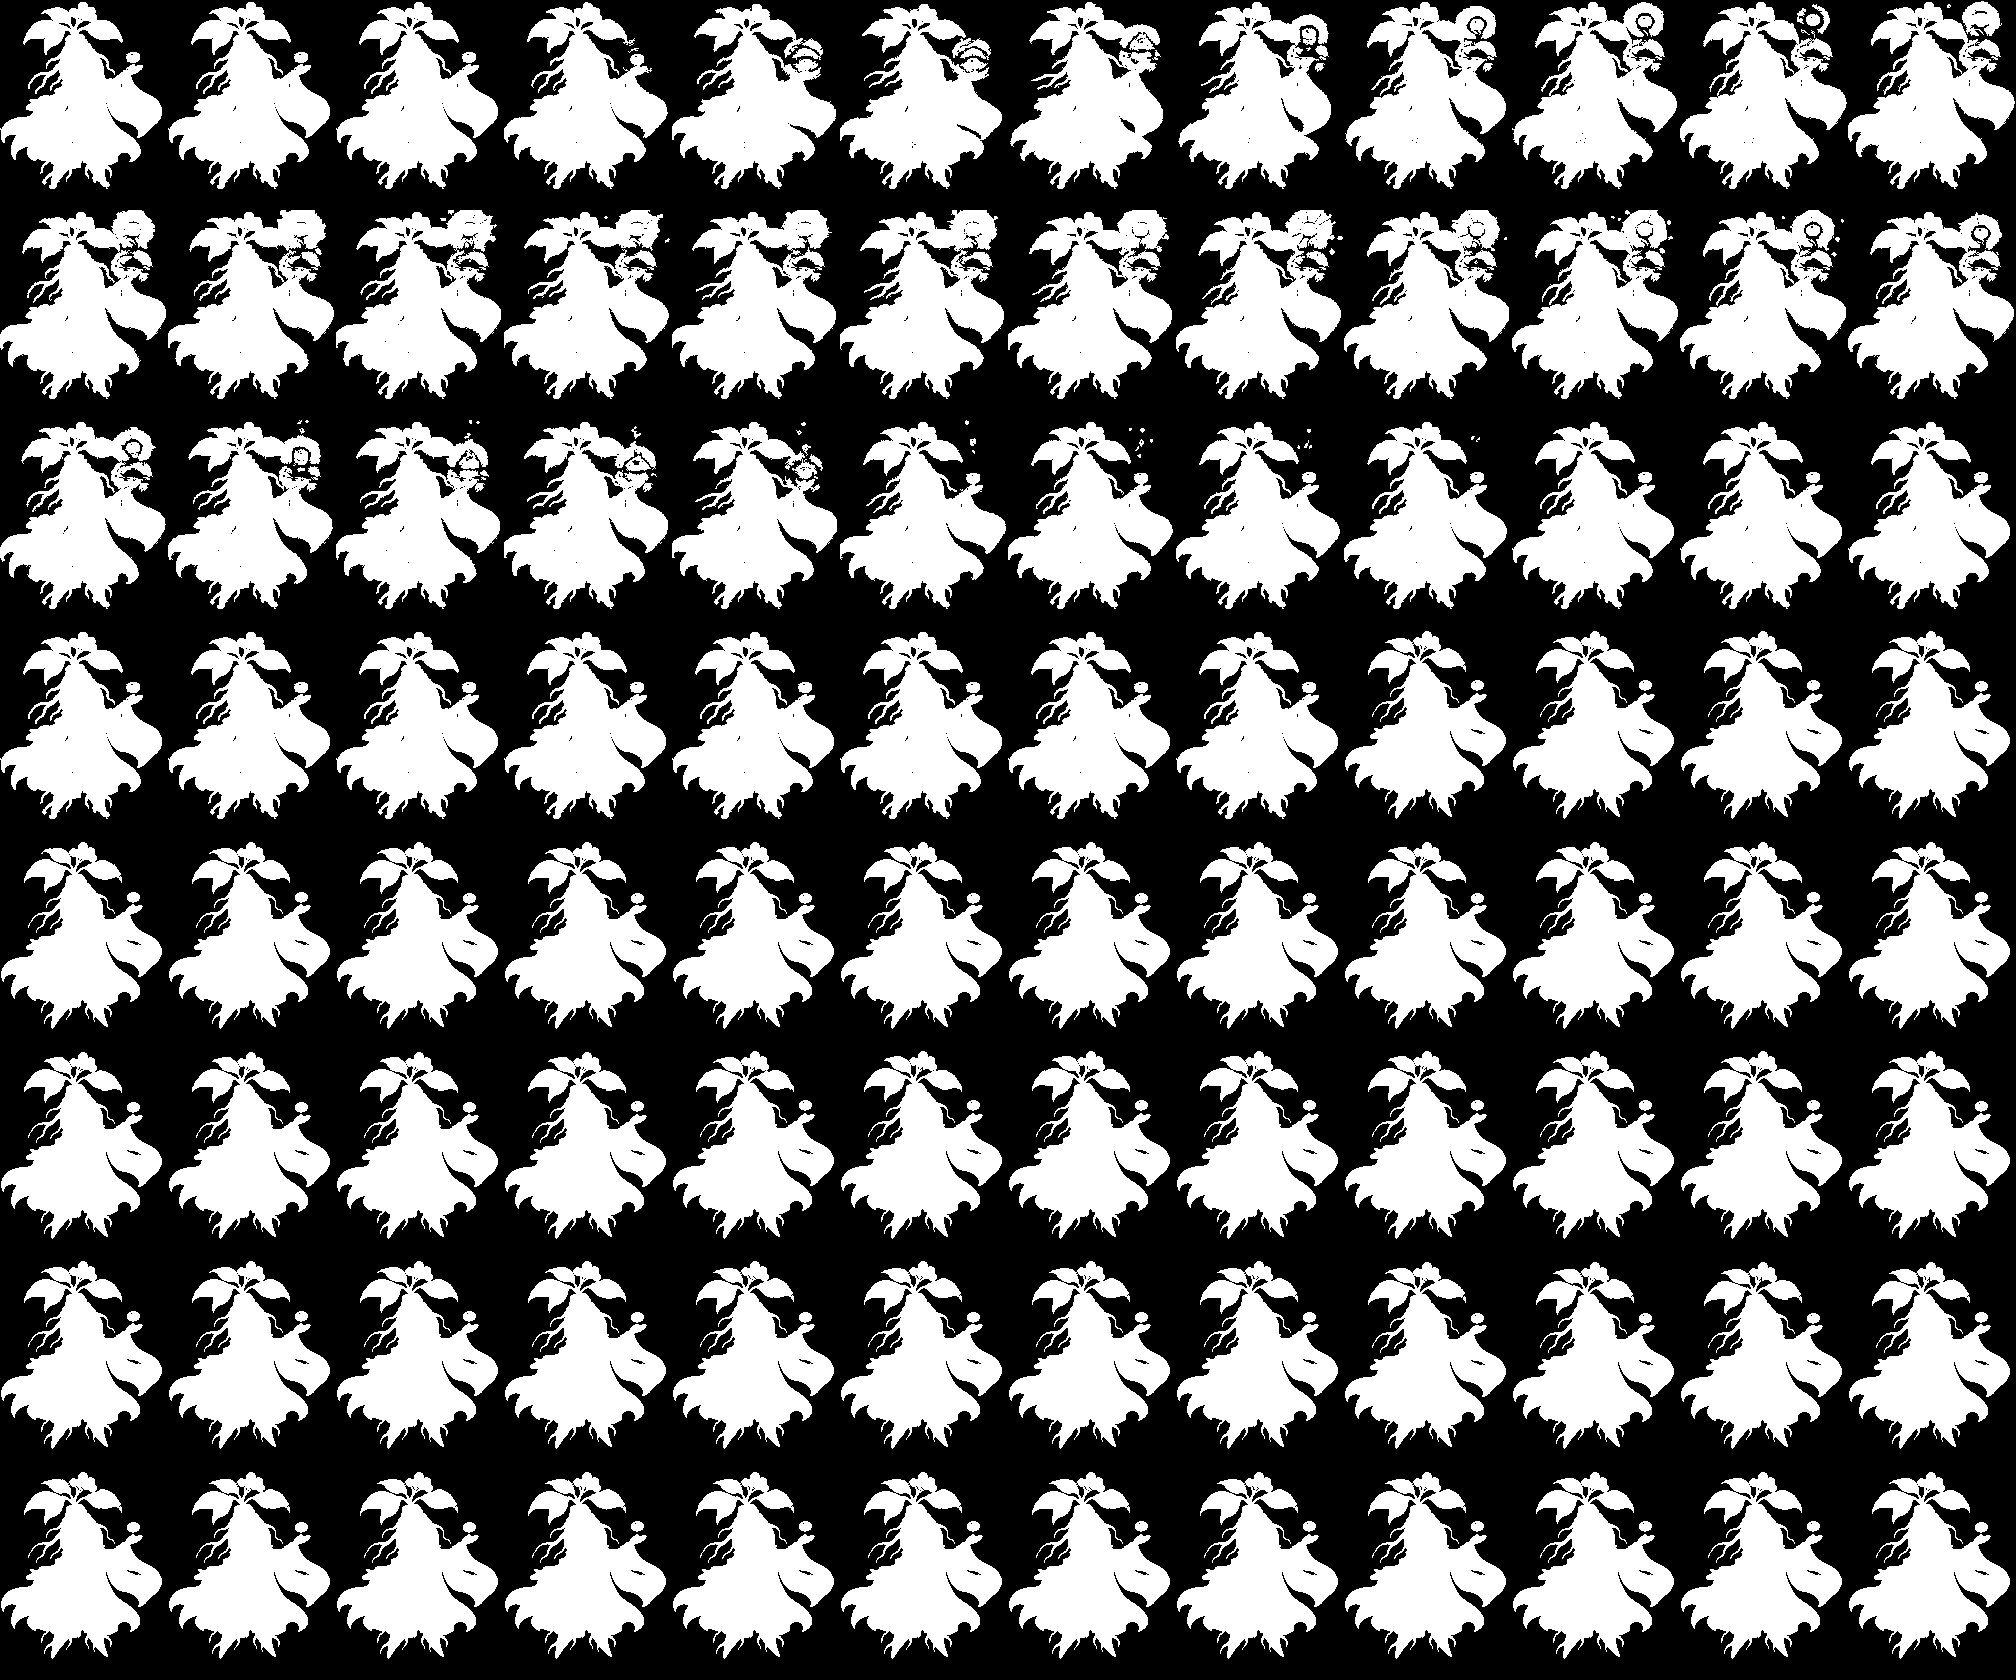
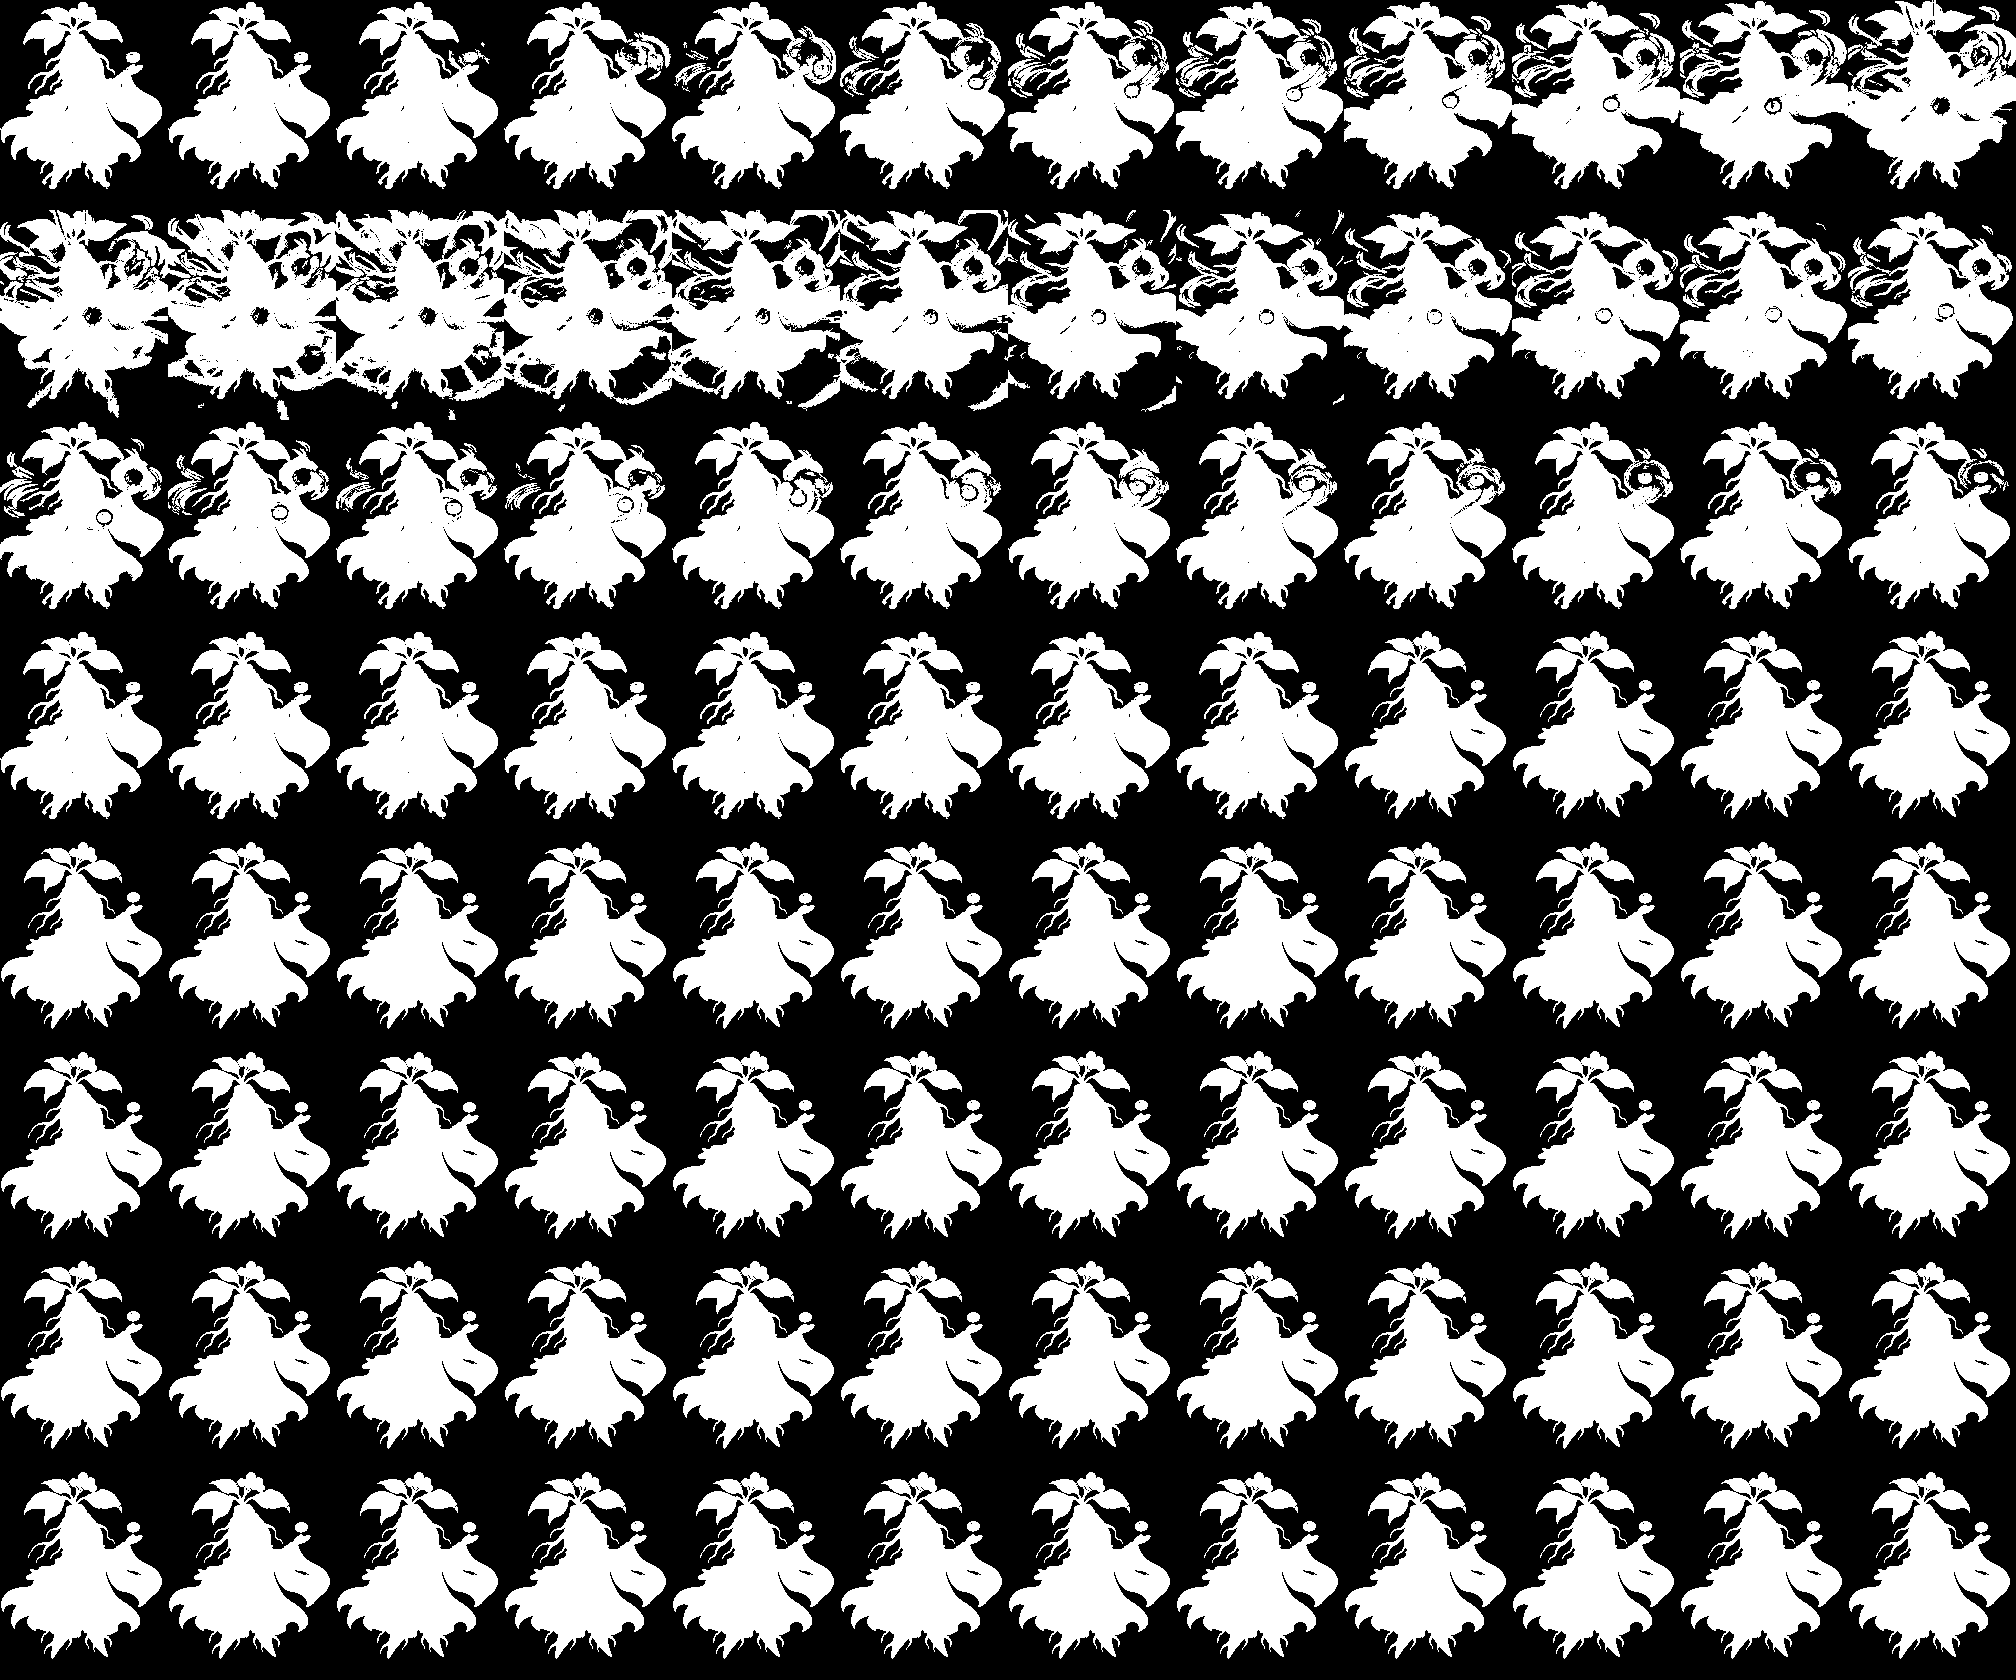
[立繪] B 方案：金丹男女換招牌動作、煉氣男女整條改用 15 秒影片
- 金丹男：金丹飛進丹田、全身發金光、袍子被吹起再回掌心；金丹女：金丹繞身拖出金色光帶（多米嫌拋接、光環太普通）
- 煉氣男女：程式晃的桶子、褲子不自然，整條 96 格都由 15 秒影片來（招牌動作後一直輕輕動到最後）
- 金丹女改接第 19 到 54 格：她左右晃，只有每 12 格回中間，第 0 格接進去會跳
- video_splice.py 可指定從第幾格接、接幾格；影片長過一輪就只取 96 格

diff --git a/.uiux/像素風立繪/水桶修圖實驗/B_影片/video_splice.py b/.uiux/像素風立繪/水桶修圖實驗/B_影片/video_splice.py
@@ -12,7 +12,9 @@
      角色後面的（back）只疊在不是角色的格子上。
   4. 角色遮罩（付費造型換色用）：跟背景層差得夠多的格子算角色，太小的碎點不算（跟 animate.layers 同一個規矩）。
 
-用法：python video_splice.py 影片.mp4 代號 [START]
+用法：python video_splice.py 影片.mp4 代號 [START] [格數]
+  START、格數：影片從第幾格接進去、接幾格。程式動畫在 START 前一格、START+格數 那一格要跟原圖最像，進出才不會跳
+  （金丹女的身體跟著金丹左右晃，只有每 12 格回到中間一次，所以要用 19 36）
 輸出：{代號}_anim96_B6.png、{代號}_anim96_B6_mask.png、{代號}_B6_一輪.gif、{代號}_B6_接縫.png（都在這個資料夾）
 """
 import os
@@ -35,9 +37,10 @@ SETTLE_LAB = [25, 45, 70, None]
 
 def main():
     if len(sys.argv) < 3:
-        raise SystemExit('用法：python video_splice.py 影片.mp4 代號 [START]')
+        raise SystemExit('用法：python video_splice.py 影片.mp4 代號 [START] [格數]')
     video, name = sys.argv[1], sys.argv[2]
     start = int(sys.argv[3]) if len(sys.argv) > 3 else DEFAULT_START
+    wanted = int(sys.argv[4]) if len(sys.argv) > 4 else None
     if not os.path.isfile(video):
         raise SystemExit('找不到影片：' + video)
 
@@ -51,8 +54,14 @@ def main():
     # 最後一格一定取片尾：片尾才是回到原圖的那一張。第一版只取到 5.85 秒，結尾沒收回原圖，
     # 接回程式動畫那一格整片跳掉（14 張都是，相鄰兩格差 5000 格以上，平常只差幾百）
     clip_frames = int(round(len(files) / V.FPS / V.STEP_S))
-    if not 0 <= start <= A.N - clip_frames:
-        raise SystemExit('START 要在 0 到 %d 之間' % (A.N - clip_frames))
+    # 煉氣男女整條都用影片（多米 2026-11-19：程式晃的桶子、褲子不自然）：15 秒的片子比一輪 14.4 秒長，只取滿 96 格
+    clip_frames = min(clip_frames, A.N - start)
+    if wanted is not None:
+        if not len(SETTLE_LAB) < wanted <= clip_frames:
+            raise SystemExit('格數要在 %d 到 %d 之間' % (len(SETTLE_LAB) + 1, clip_frames))
+        clip_frames = wanted
+    if not 0 <= start < A.N:
+        raise SystemExit('START 要在 0 到 %d 之間' % (A.N - 1))
     picks = [int(round(k * V.STEP_S * V.FPS)) for k in range(clip_frames - 1)] + [len(files) - 1]
     clip = P.to_cells(files, base, pal, pal_lab, picks)
     base_lab = P.lab(base)

diff --git a/.uiux/像素風立繪/水桶修圖實驗/B_影片/14張招牌動作.md b/.uiux/像素風立繪/水桶修圖實驗/B_影片/14張招牌動作.md
@@ -3,6 +3,8 @@
 動作沿用程式動畫原本那一套（`animate.py` 檔頭，之前點過頭的），只是改成 AI 影片來演。
 每支 6 秒、首尾都放原圖，H3 一支 12 點，14 支 168 點。
 
+例外：煉氣男、煉氣女整條 96 格都用影片（15 秒一支 30 點），不用程式晃動，因為程式晃的桶子和褲子不自然（多米 2026-11-19）。金丹女接在第 19 到 54 格，因為她的身體跟著金丹左右晃，只有每 12 格回到中間一次。
+
 「手」那一欄是寫指令時要鎖住的地方。煉氣男第一次生出三隻手，原因是指令叫他兩手捧桶，可是他另一隻手插在腰上，模型就多畫了一隻。所以每張都要寫清楚哪隻手全程不動、哪隻手在演。
 
 | 代號 | 誰 | 招牌動作 | 手（照畫面左右，寫指令前每張放大再確認） |
@@ -11,8 +13,8 @@
 | gr0 | 煉氣女 | 左右搖、踮兩下，桶跟著盪 | 畫面左邊的手插腰不動，右邊的手提桶 |
 | r1 | 築基男 | 舉劍下劈，劍光一道 | 畫面右邊的手握劍，左邊的手不動 |
 | gr1 | 築基女 | 連點兩劍 | 畫面右邊的手握劍，左邊的手不動 |
-| r2 | 金丹男 | 把金丹拋起來再接住 | 畫面右邊的手托金丹，左邊的手張開不動 |
-| gr2 | 金丹女 | 金丹在掌上繞一圈，盪出一圈光環 | 畫面右邊的手托金丹，左邊的手張開不動 |
+| r2 | 金丹男 | 金丹飛進丹田，全身由內而外發金光、袍子根鬚被氣流吹起，再浮回掌心（2026-11-19 多米嫌拋接太普通，換掉） | 兩手不動，畫面右邊的手掌心朝上 |
+| gr2 | 金丹女 | 金丹繞身體一大圈，拖出一條金色光帶，頭髮緞帶跟著飄，再回掌心（2026-11-19 換掉光環） | 兩手不動，畫面右邊的手掌心朝上 |
 | r3 | 元嬰男 | 手杖點地，地上起一圈光紋 | 畫面右邊的手握杖，左邊的手不動 |
 | gr3 | 元嬰女 | 光點匯進頭頂的元嬰 | 畫面右邊的手握杖不動，左邊的手不動 |
 | r4 | 化神男 | 閉眼吐納，夜空劃過一顆流星 | 兩手張開不動，只有袖子飄 |
